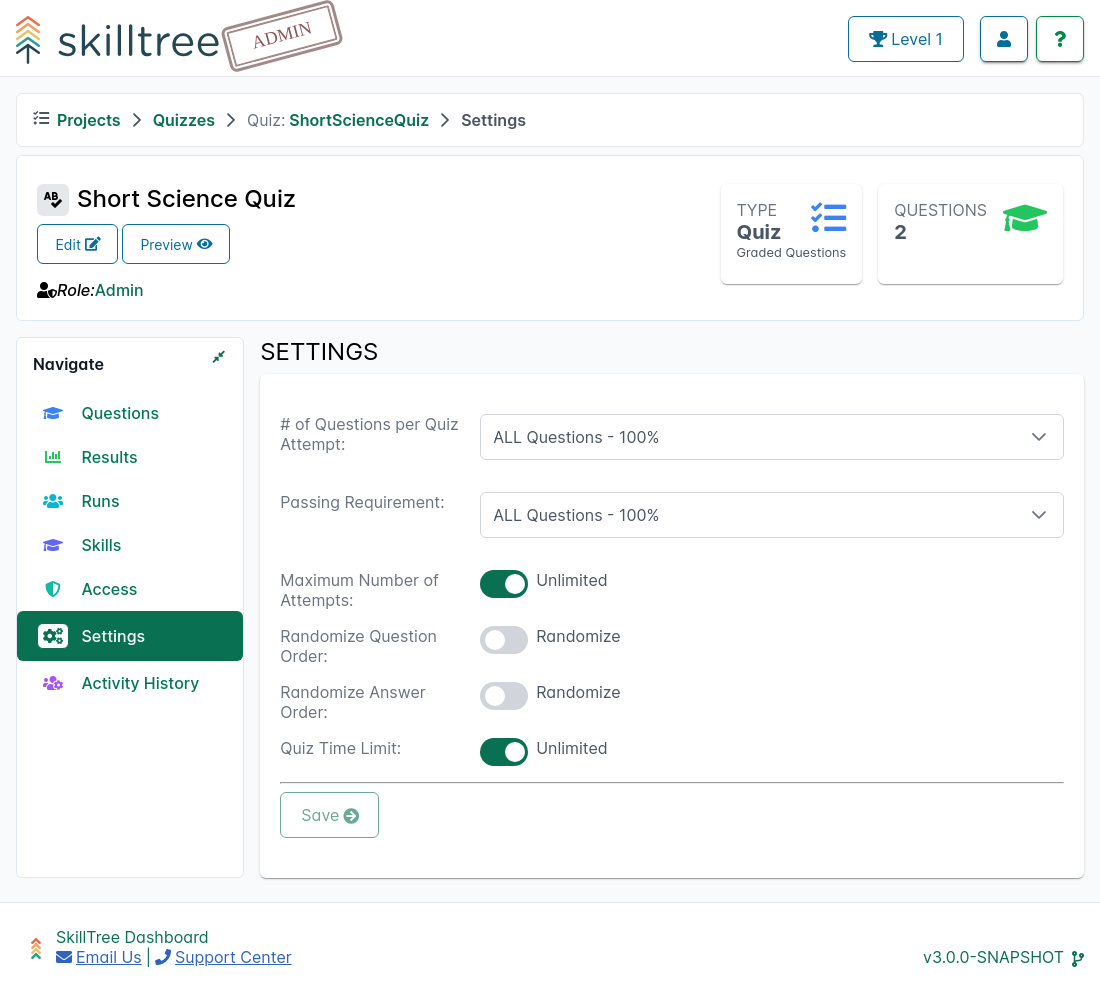
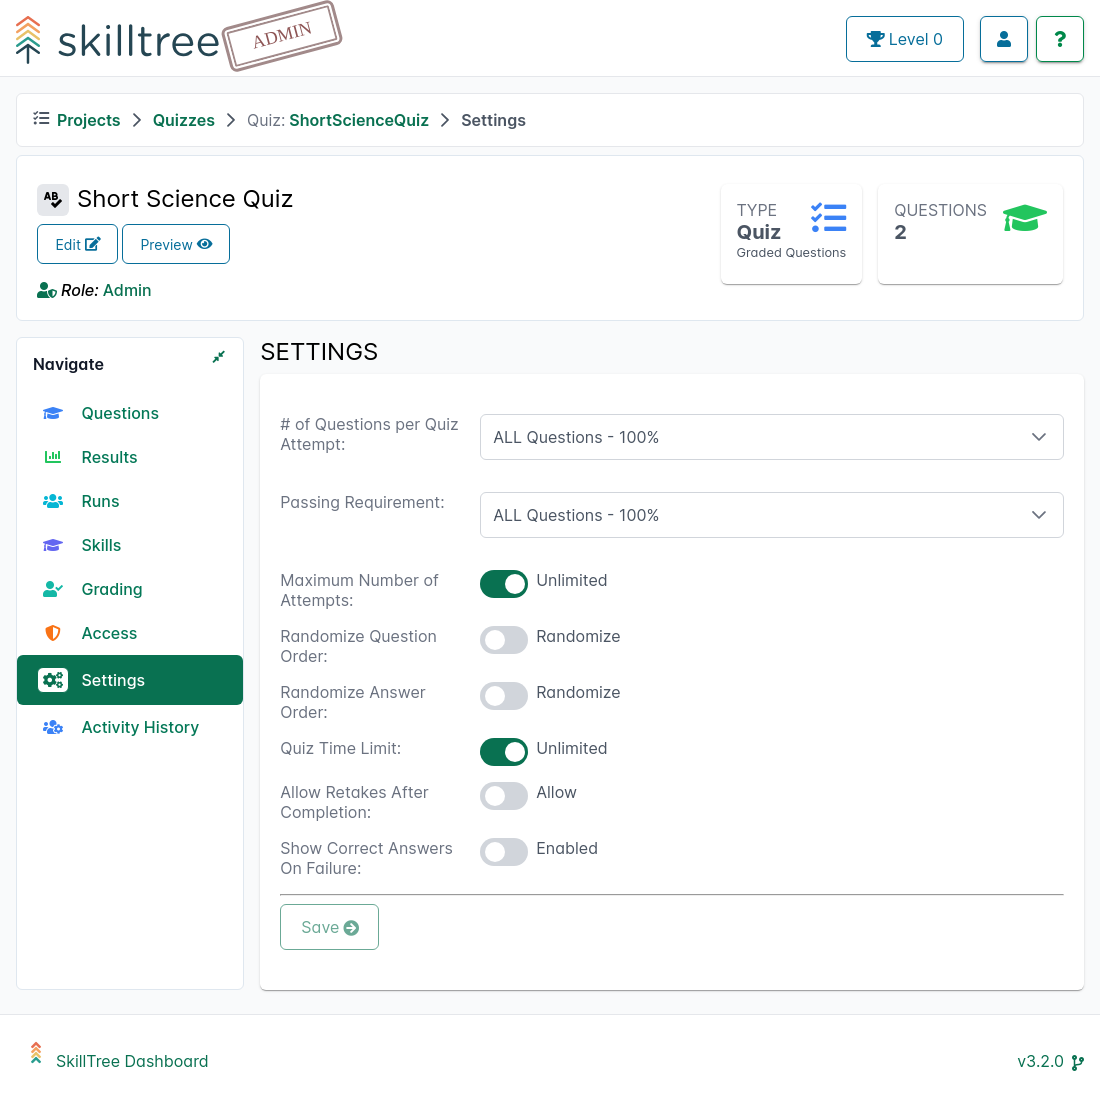
#298: document 3.2 release

diff --git a/cypress/support/commands.js b/cypress/support/commands.js
@@ -45,15 +45,29 @@ Cypress.Commands.add('snap', (name, selector = null, options = {}) => {
     }
 });
 
-Cypress.Commands.add('login', () => {
+Cypress.Commands.add('login', (username = 'bill@email.org') => {
     cy.visit('/')
-    cy.get('[id="username"]').type('bill@email.org');
+    cy.get('[id="username"]').type(username);
     cy.get('[id="inputPassword"]').type('password');
     cy.get('[data-cy="login"]').should('be.enabled')
     cy.get('[data-cy="login"]').click({force: true});
     cy.contains('Progress And Rankings');
 });
 
+Cypress.Commands.add('saveEmailServer', () => {
+    cy.log('configuring email');
+    cy.request({
+        method: 'POST',
+        url: '/root/saveEmailSettings',
+        body: {
+            publicUrl: 'http://localhost:8082/',
+            fromEmail: 'noreploy@skilltreeemail.org',
+            host: 'localhost',
+            port: 1025,
+            'protocol': 'smtp'
+        },
+    });
+})
 Cypress.Commands.add('clickNav', (navName) => {
     cy.get(`[data-cy="nav-${navName}"]`).click();
 });

diff --git a/cypress/e2e/admin.cy.js b/cypress/e2e/admin.cy.js
@@ -624,4 +624,19 @@ context('Admin: Generate Screenshots', () => {
 
     })
 
+    it('page - admin groups', () => {
+        cy.visit('/administrator/adminGroups/FancyGroup')
+        cy.get('[data-cy="roleManagerTable"] [data-cy="skillsBTableTotalRows"]').should('have.text', '3')
+        cy.snap('page-admin-groups')
+
+        cy.visit('/administrator/adminGroups/FancyGroup/group-projects')
+        cy.get('[data-cy="adminGroupProjectsTable"] [data-cy="skillsBTableTotalRows"]').should('have.text', '3')
+        cy.snap('page-admin-groups-projects')
+
+        cy.visit('/administrator/adminGroups/FancyGroup/group-quizzes')
+        cy.get('[data-cy="adminGroupQuizzesTable"] [data-cy="skillsBTableTotalRows"]').should('have.text', '2')
+        cy.snap('page-admin-groups-quizzes')
+
+    })
+
 })

diff --git a/cypress/e2e/admin-quiz_and_surveys.cy.js b/cypress/e2e/admin-quiz_and_surveys.cy.js
@@ -94,6 +94,17 @@ context('Admin: Generate Quiz and Surveys Screenshots', () => {
         cy.snap('page-quiz-settings');
     })
 
+    it('quiz grading page', () => {
+        // going to expect email server is already configured
+        cy.viewport(1100, 500);
+        cy.visit('/administrator/quizzes/ChessInsight/grading')
+        cy.get('[data-cy="gradeBtn_user4@email.com"]').click()
+        cy.get('[data-cy="question_1"] [data-cy="questionDisplayText"]')
+        cy.snap('page-quiz-grading');
+        cy.snap('component-quiz-grading-email-subscriptions', '[data-cy="quizRunsToGradeTable"] [data-pc-section="header"]');
+    })
+
+
     it('quiz survey page', () => {
         // cy.viewport(1100, 500);
         cy.visit('/administrator/quizzes/CodingLanguageandFrameworksPreferences/')

diff --git a/cypress/e2e/progress-and-ranking.cy.js b/cypress/e2e/progress-and-ranking.cy.js
@@ -119,5 +119,16 @@ context('Progress and Ranking: Generate Screenshots', () => {
     cy.snap('client-display-quiz-run', '[data-cy="skillsDisplayHome"]');
   })
 
+  it('quiz grading attempts page', () => {
+    cy.request('POST', '/logout');
+    cy.login('user1@email.com');
+    cy.visit('/progress-and-rankings/my-quiz-attempts')
+    cy.get('[data-cy="myQuizAttemptsTable"] [data-cy="skillsBTableTotalRows"]').should('have.text', '9')
+    cy.snap('page-my-quiz-attempts');
+
+    cy.get('[data-cy="myQuizAttemptsTable"] [data-p-index="0"] a').click()
+    cy.snap('page-my-quiz-single-attempt');
+  })
+
 
 })

diff --git a/docs/.vuepress/config.js b/docs/.vuepress/config.js
@@ -110,6 +110,7 @@ sidebar = sidebar.concat([{
             '/dashboard/user-guide/skills-groups',
             '/dashboard/user-guide/rich-text-editor',
             '/dashboard/user-guide/quizzes-and-surveys',
+            '/dashboard/user-guide/admin-groups',
             '/dashboard/user-guide/badges',
             '/dashboard/user-guide/learning-path',
             '/dashboard/user-guide/progress-and-ranking',

diff --git a/docs/dashboard/user-guide/quizzes-and-surveys.md b/docs/dashboard/user-guide/quizzes-and-surveys.md
@@ -47,6 +47,7 @@ in order to earn the skill and its points. In the case of a quiz, then the quiz 
 Quizzes currently support two types of questions:
 - ``Single Choice`` - question will only have 1 correct answer 
 - ``Mulitple Choice`` - question has 2 or more correct choices; all correct choices must be selected to get credit for the question
+- ``Input Text`` - question for test-takers to provide a free-form text answer that will later be graded by a quiz administrator
 
 To administer a quiz click `Manage` button for that quiz on the `Quizzes and Surveys` page. 
 
@@ -69,13 +70,37 @@ order to receive the credit for the question
 Use the `Preview` button on the top left below the Quiz name in order to see what the quiz will look like to your users.
 :::
 
+### Answer Grading <since project="skills-service" version="3.2" />
+
+
+If a quiz has at least 1 ``Input Text`` question then after a quiz taker submits an attempt quiz administrator will be able to grade the answers for the ``Input Text`` questions.
+
+To do so please navigate to ``Quizzes and Surveys -> Quiz -> Grading`` page.
+
+
+![page-quiz-grading.png](../../screenshots/admin/page-quiz-grading.png)
+
+A table of quiz attempts that contain ``Input Text`` questions will be displayed. Click on the ``Grade`` button to the right of the user to open the grading request. 
+Once expanded answers can be marked as either "Correct" or "Wrong", in addition a justification can be provided. 
+Once all the answer are marked as either correct or wrong, SkillTree system will grade the quiz attempt in its entirety considering all the question in this quiz.
+
+#### Grading Notifications
+SkillTree will send email notifications to quiz administrators when grading is requested and send email notifications to quiz takes when answers are graded.
+
+Quiz administrators can unsubscribe from notifications by navigating to ``Quizzes and Surveys -> Quiz -> Grading`` page.
+
+![component-quiz-grading-email-subscriptions.png](../../screenshots/admin/component-quiz-grading-email-subscriptions.png)
+
+The Grading section contains a Subscribed/Unsubscribed toggle on the top-right of the component.
+
+
 ### Quiz Settings
 
 A Quiz has a number of customization parameters, to customize a quiz please navigate to ``Quizzes and Surveys -> Quiz -> Settings`` page.
 
-![Quiz Single Result Page Screenshot](../../screenshots/admin/page-quiz-settings.png)
+![Quiz Screenshot](../../screenshots/admin/page-quiz-settings.png)
 
-#### Setting: # of Questions per Quiz Attempt <since project="skills-service" version="2.9" />
+#### Setting: # of Questions per Quiz Attempt
 
 When enabled, a sub-set of random questions will be presented to the user taking this quiz. 
 For example, if there are 10 questions and this setting is set to 5, then each time a user takes this quiz
@@ -99,7 +124,7 @@ If enabled, questions are presented in a random order each time the quiz is take
 
 If enabled, each question's answers are presented in a random order each time the quiz is taken.
 
-#### Setting: Quiz Time Limit <since project="skills-service" version="2.10" />
+#### Setting: Quiz Time Limit
 
 If a time limit is set, users will have a specific duration to complete the quiz. 
 If they exceed the time limit, their attempt will be marked as 'Failed'.
@@ -152,6 +177,16 @@ A Survey has customization parameters, to customize a survey please navigate to 
 
 With this feature enabled, users can retake surveys unlimited number of times. The system
 accurately tracks each completion, providing a comprehensive view of user progress and performance.
+
+## Copy
+
+Quizzes, surveys and questions can easily be copied. 
+
+To use an existing Quiz/Survey as a template you can easily copy its declarations (questions, settings, etc..) into a brand-new Quiz/Survey.  
+To copy a Quiz/Survey please use the ![copy button](./screenshots/copy_btn.png) button available on a quizzes/surveys administration page.
+The system will prompt you to enter a new Quiz/Survey name and optionally modify the Quiz/Survey id.
+
+Similarly, to copy a question please use the ![copy button](./screenshots/copy_btn.png) button available on a questions page within a single Quiz/Survey administration.
 
 
 ## Results

diff --git a/docs/release-notes/skills-service.md b/docs/release-notes/skills-service.md
@@ -8,6 +8,26 @@ To obtain deployable artifacts please visit [Distributions](/dashboard/install-g
 
 </conditional>
 
+
+## 3.2.0 <release-date date="November 2024" />
+- Introduced the ability to manage project and quiz administrators in [groups](/dashboard/user-guide/admin-groups.html.
+  - The new approach allows for simple creation and management of Admin Groups.
+  - Admin groups can easily be assigned to multiple projects and/or quizzes.
+- Introduced a brand-new quiz question type: `Input Text` with a comprehensive grading mechanism.
+  - Quiz administrators can now add `Input Text` type of questions that require test-takers to compose text answers.
+  - `Input Text` questions are then graded by quiz administrators to either make the answer correct or wrong.
+  - SkillTree emails grading requests and grading results; administrators have an option to unsubscribe.
+- Added visualization of completed surveys and passed/failed quizzes.
+  - Displayed the history of current users' taken quizzes and completed surveys on the Progress and Ranking pages with the ability to drill down into a specific attempt.
+  - Implemented a new card providing a simple quizzes and surveys count on the home page.
+  - When a quiz or a survey is associated with a skill, added the display of the answer for passed quizzes and completed surveys directly on the skill page.
+- Added the ability to copy a quiz or a survey.
+- Added the ability to copy quiz or survey questions.
+- Further enhanced the User Transcript export to show when a skill was achieved and, in the case of approval-based skills, who the approver was.
+- Bug Fixes
+- Upgraded libraries
+
+
 ## 3.1.0 <release-date date="September 2024" />
 - Introducing Data Export Capability for Project Admins: Easily export key data into Excel format, including:
   - [Users' Progress Table](/dashboard/user-guide/users.html): Track current progress in a tabular format

diff --git a/docs/dashboard/user-guide/progress-and-ranking.md b/docs/dashboard/user-guide/progress-and-ranking.md
@@ -66,6 +66,24 @@ You can customize the landing page by visiting ``Settings -> Preferences``:
 
 ![Preferences Page](../../screenshots/admin/page-settings-preference.png)
 
+## Quizzes and Surveys
+
+You can view your completed quizzes and surveys by visiting the ``My Quizzes and Surveys`` page from the ``My Projects`` page by clicking the ``History`` button on the Quizzes and Surveys card.
+
+![page-my-quiz-attempts.png](../..//screenshots/progress-and-ranking/page-my-quiz-attempts.png)
+
+``My Quizzes and Surveys`` page features a searchable and sortable history table of all the passed and failed quizzes as well as completed surveys. 
+You can drill down into a quiz or survey attempt by clicking on its name. 
+
+![page-my-quiz-single-attempt.png](../../screenshots/progress-and-ranking/page-my-quiz-single-attempt.png)
+
+A single quiz or survey attempt will display the results of that attempt. In case of the survey all the questions and associated selections will be shown. 
+
+In case of a quiz they are number of possible conditions based on the status of the attempt:
+- `Passed` Quiz: all the questions and answer are shown
+- `Failed` Quiz: by default only manually graded (`Text Input`) answers are shown, `Single Choice` and `Multiple Choice` answers are not displayed; however if [Show Correct Answers On Failure](/dashboard/user-guide/quizzes-and-surveys.html#quiz-settings) setting is enabled all the answers are displayed
+- `Needs Grading` Quiz: answers are now displayed
+
 ## Badges Page
 
 You can view your earned and available badges by visiting the ``My Badges`` page from the ``My Projects`` page.

diff --git a/docs/dashboard/user-guide/admin-groups.md b/docs/dashboard/user-guide/admin-groups.md
@@ -1,0 +1,17 @@
+# Admin Groups
+
+Admin Groups streamline the ability to manage a list of administrators for one or more projects and/or quizzes.
+Once an Admin Group is created you can easily add/remove members to/from it. A group can then be assigned to one or more projects and/or quizzes 
+which then allows the members of the group to have administrative privileges to the assigned projects and/or quizzes. 
+ 
+To create an admin group please navigate to ``Admin Groups`` page and click ``Admin Group +`` button.
+
+![page-admin-groups.png](../../screenshots/admin/page-admin-groups.png)
+
+To assign a group to a project please navigate to ``Adming Groups -> Projects`` then select one of the existing projects from the dropdown. 
+
+![page-admin-groups-projects.png](../../screenshots/admin/page-admin-groups-projects.png)
+
+To assign a group to a quiz please navigate to ``Adming Groups -> Quizzes`` then select one of the existing quizzes from the dropdown.
+
+![page-admin-groups-quizzes.png](../../screenshots/admin/page-admin-groups-quizzes.png)
